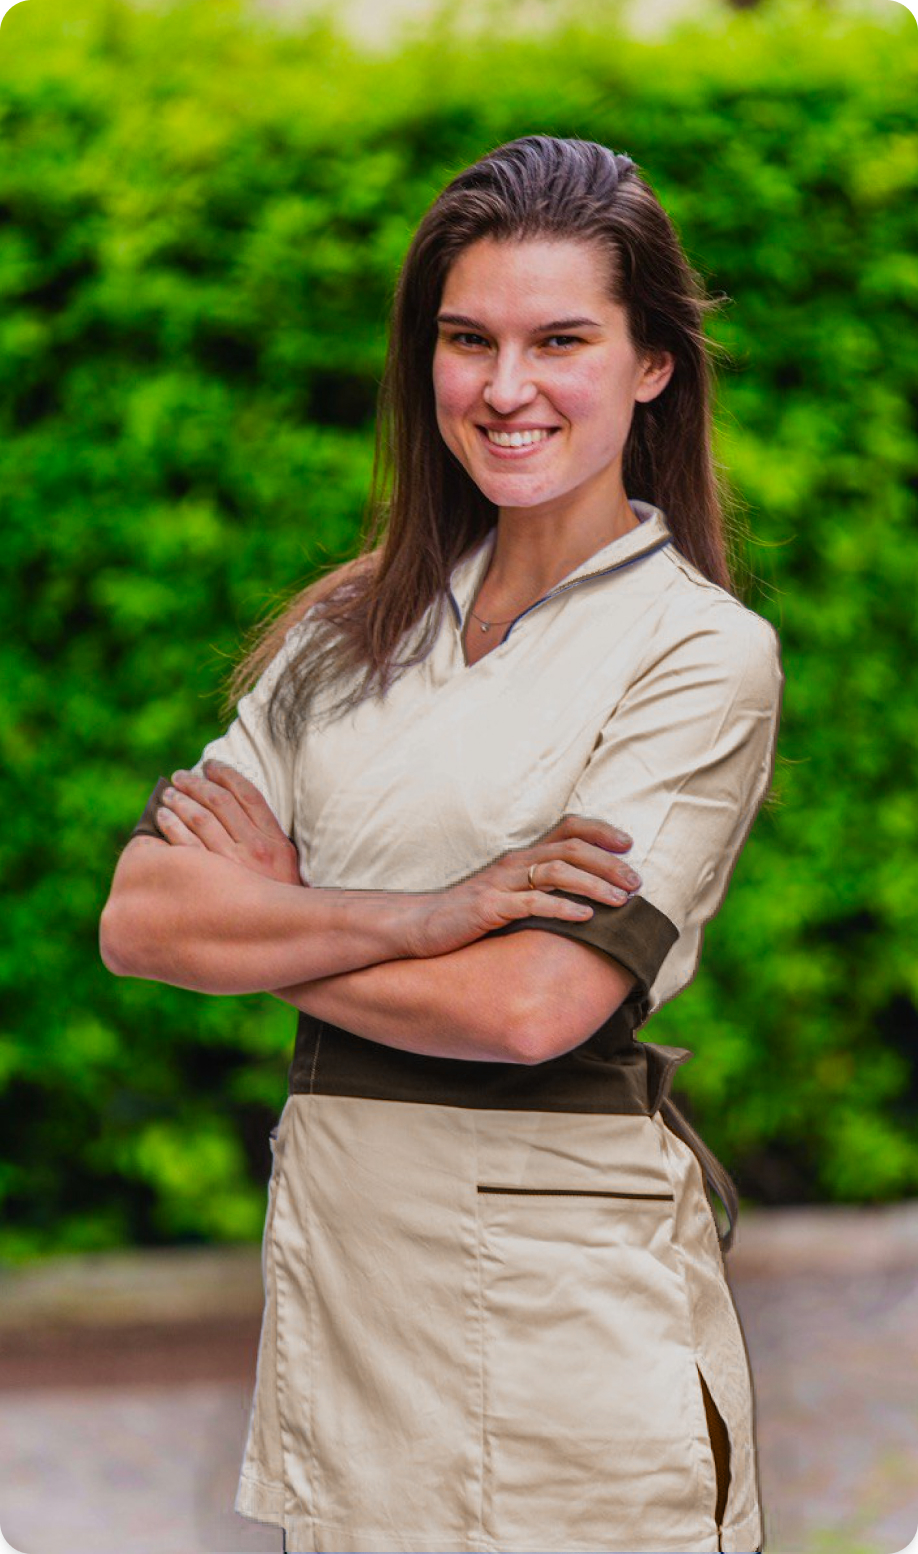
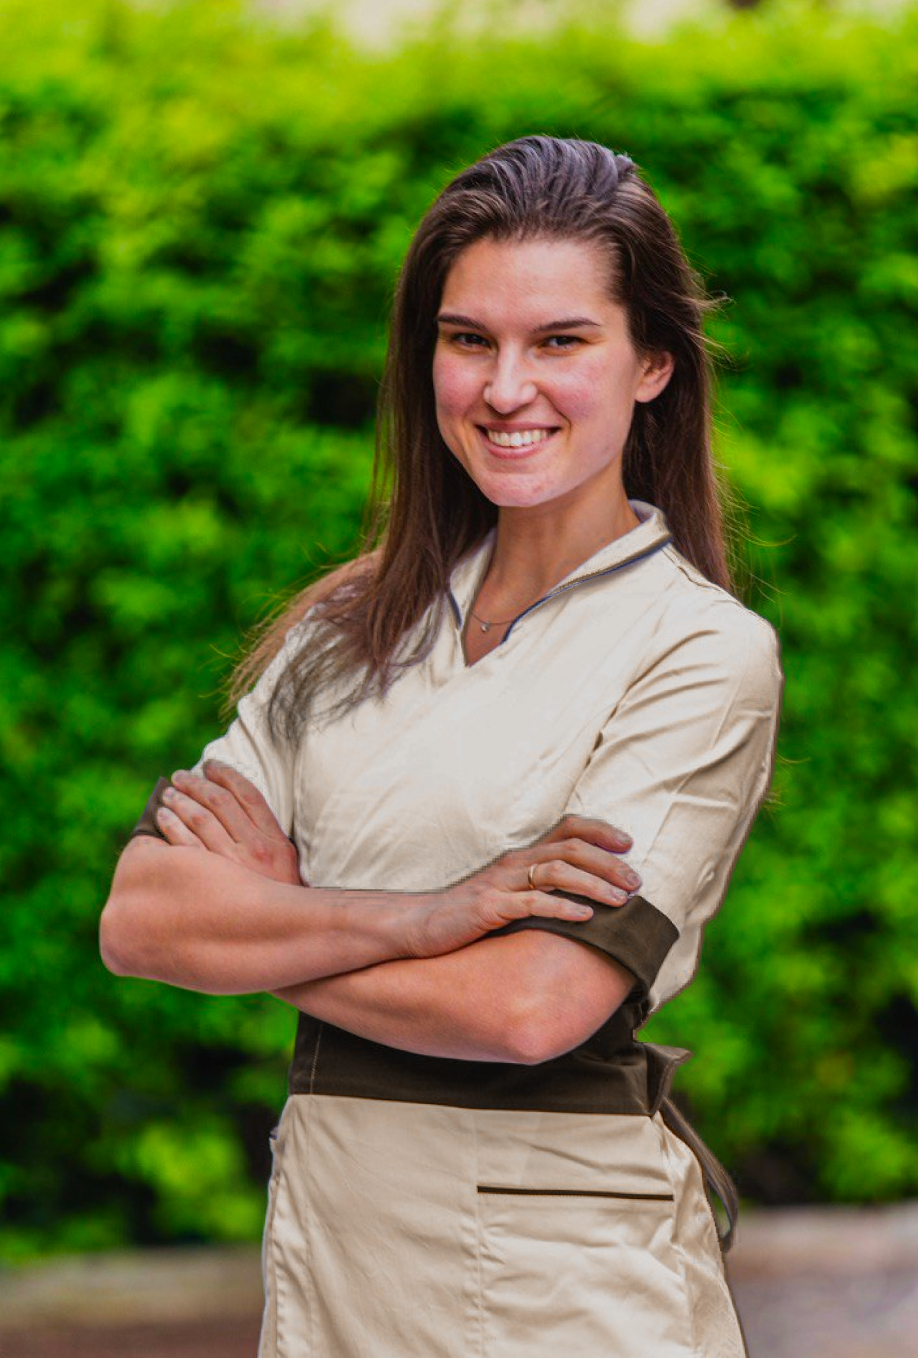
Hero fix

diff --git a/index.html b/index.html
@@ -46,7 +46,7 @@
 </head>
 
 <body class="relative">
-    <div id="hero-section" class="relative w-full overflow-visible">
+    <div id="hero-section" class="relative w-full overflow-visible min-h-screen">
         <img src="acqua.png" alt=""
             class="absolute left-[20%] top-[30%] -translate-x-1/2 -translate-y-1/2 w-[90%] max-w-[1200px] opacity-30 z-0">
 
@@ -73,8 +73,8 @@
                 </button>
             </div>
 
-            <div class="md:w-5/12 flex justify-center relative z-20">
-                <img src="Arianna.jpg" alt="Arianna Postinghel" class="w-full h-auto rounded-lg shadow-lg">
+            <div class="md:w-5/12 flex justify-center relative z-20 ">
+                <img src="Arianna.jpg" alt="Arianna Postinghel" class="w-full h-auto max-h-[80vh] rounded-2xl shadow-lg object-cover">
             </div>
         </div>
     </div>
